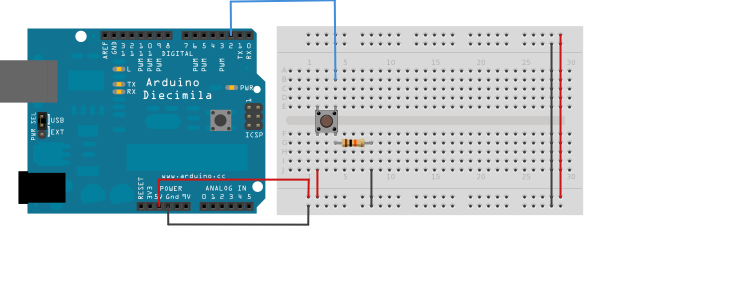
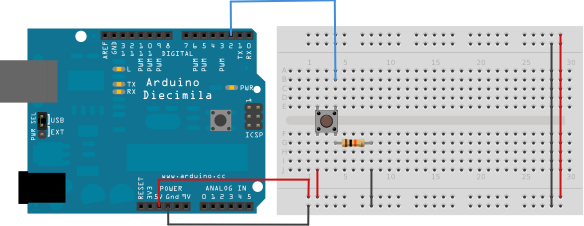
Update README

diff --git a/README.md b/README.md
@@ -6,7 +6,7 @@
 
 ![Materials](https://raw.githubusercontent.com/marcelinollano/energy-monitor/master/Assets/Materials.jpg)
 
-![Wiring](https://raw.githubusercontent.com/marcelinollano/energy-monitor/master/Assets/Wiring.jpg)
+![Wiring](https://raw.githubusercontent.com/marcelinollano/energy-monitor/master/Assets/Wiring.png)
 
 ![Apps](https://raw.githubusercontent.com/marcelinollano/energy-monitor/master/Assets/Apps.jpg)
 
